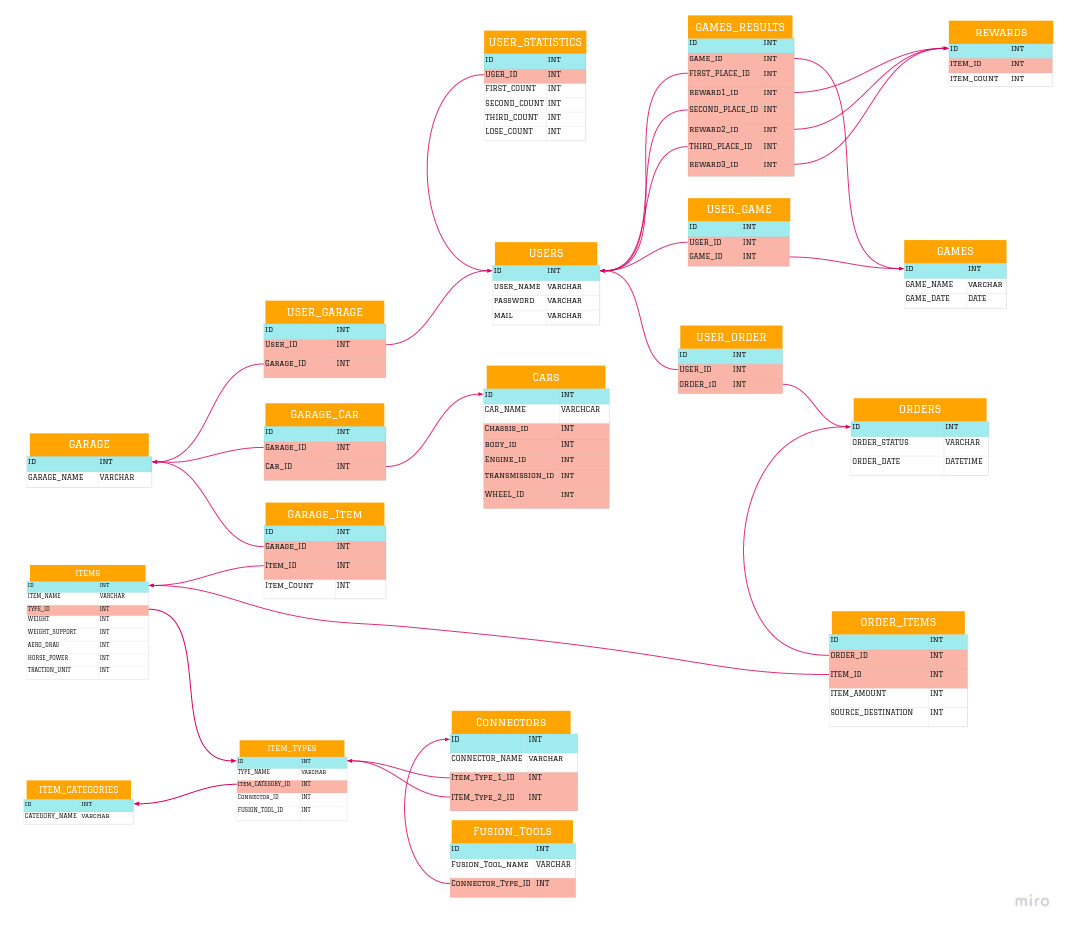
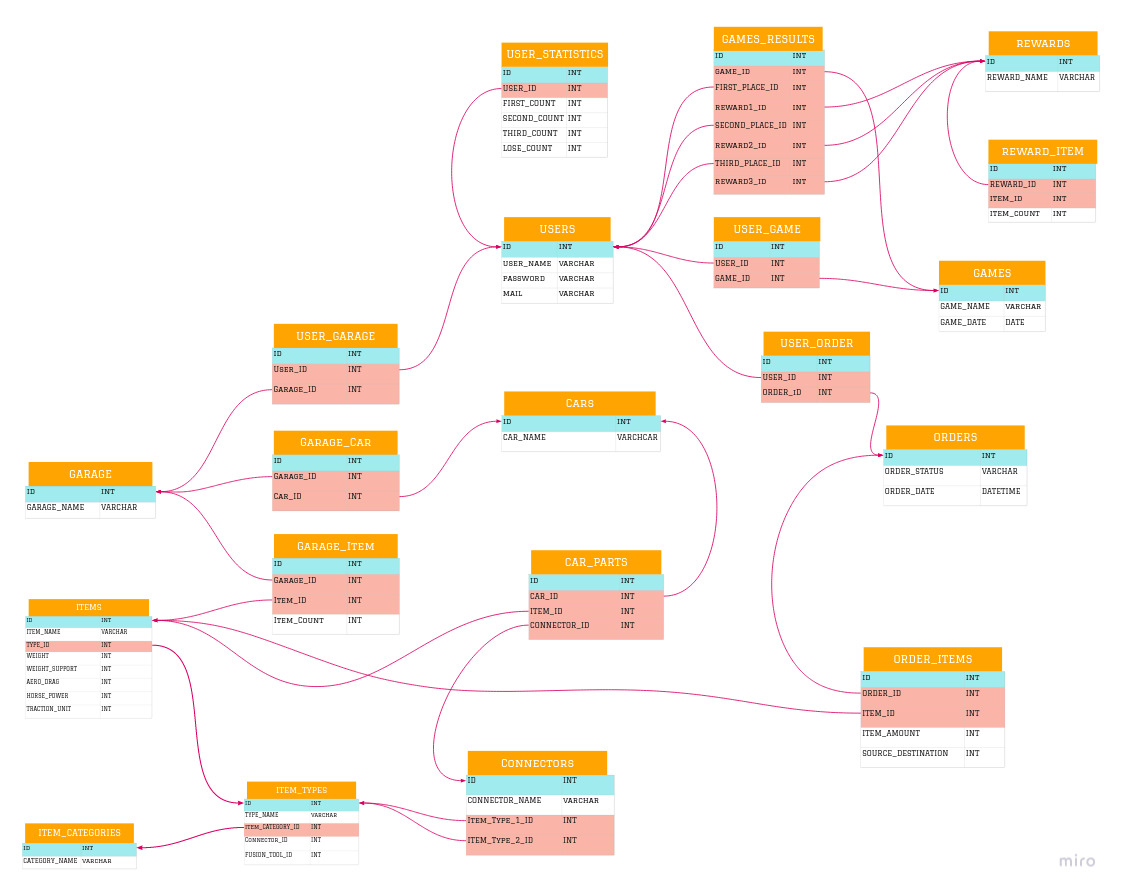
Update database architecture
Closes #8

diff --git a/Project Information/machinarium_dabatase_objects.md b/Project Information/machinarium_dabatase_objects.md
@@ -1,8 +1,9 @@
 
 | Tables_in_machinarium_database | Table_type |
 |--------------------------------|------------|
+| car_parts                      | BASE TABLE |
 | cars                           | BASE TABLE |
-| connector                      | BASE TABLE |
+| connectors                     | BASE TABLE |
 | fusion_tools                   | BASE TABLE |
 | game_results                   | BASE TABLE |
 | games                          | BASE TABLE |
@@ -14,6 +15,7 @@
 | items                          | BASE TABLE |
 | order_items                    | BASE TABLE |
 | orders                         | BASE TABLE |
+| reward_item                    | BASE TABLE |
 | rewards                        | BASE TABLE |
 | user_game                      | BASE TABLE |
 | user_garage                    | BASE TABLE |
